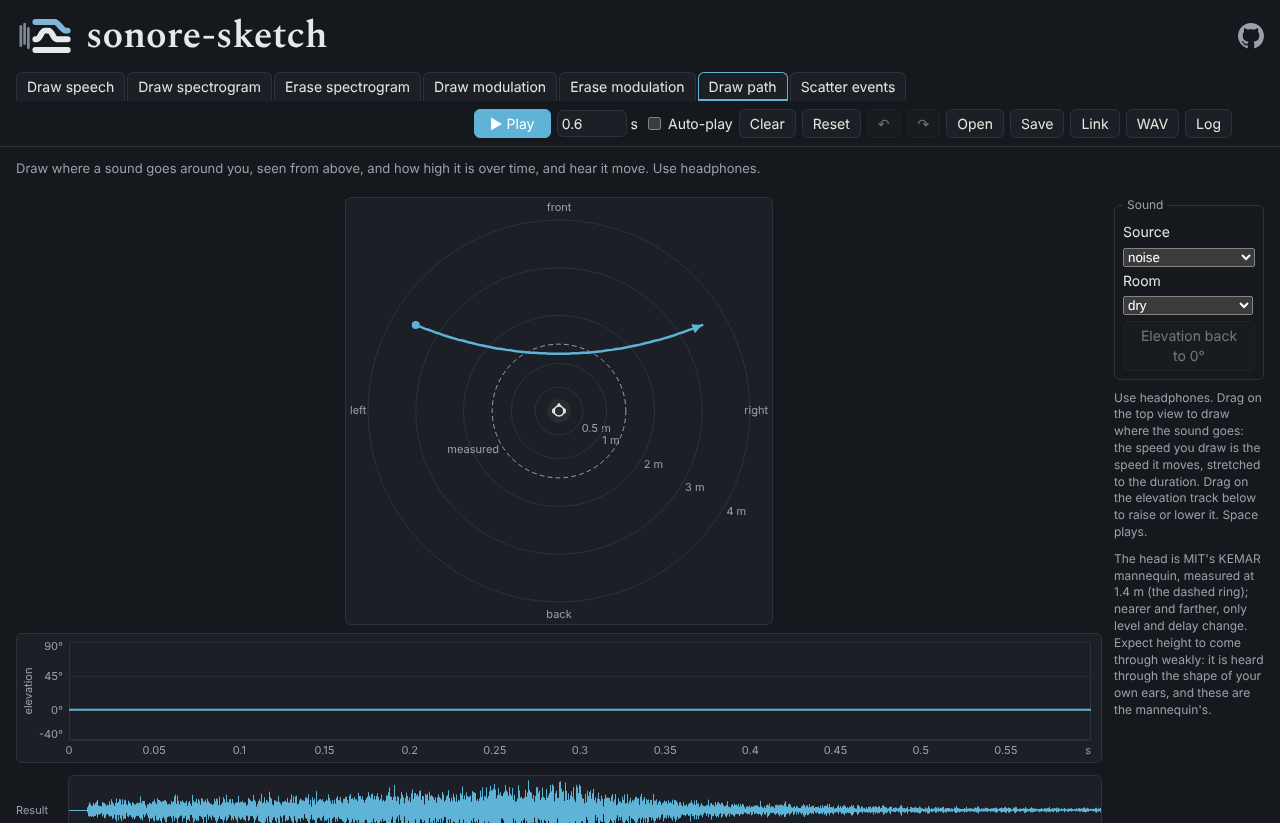
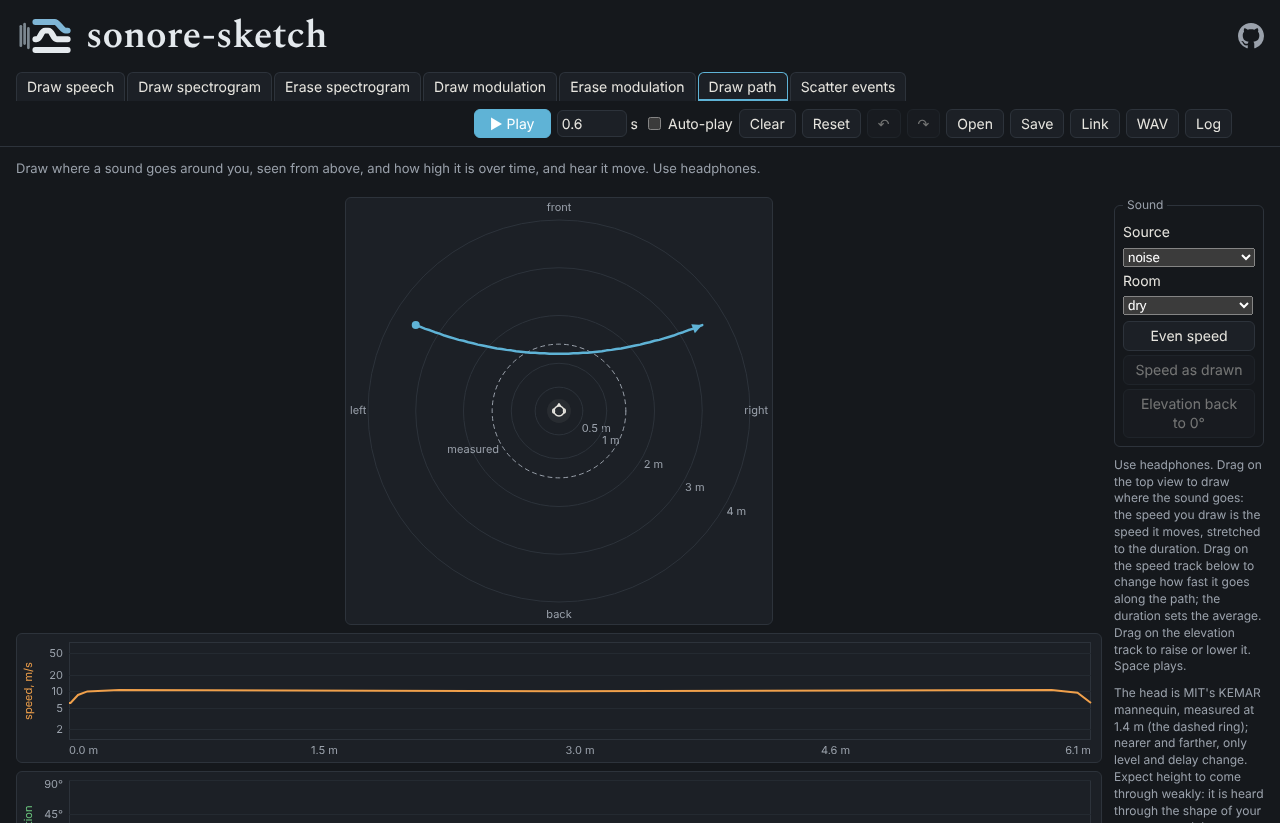
README screenshots: retake after Draw path's speed track
Claude-Session: https://claude.ai/code/session_01VRBdSnmmHXjqBvDKgkQQJ7

Changed region(s): [[0.0, 0.3949, 1.0, 1.0], [0.0, 0.8202, 0.8438, 0.9113]]

diff --git a/README.md b/README.md
@@ -21,7 +21,7 @@ that makes every sound here, can do, each sound playable next to its plots.
 <table><tr>
 <td width="33%"><a href="https://choyun1.github.io/sonore-sketch/#tab=draw-speech"><img alt="The Draw speech tab: formant tracks over the spectrogram of sonore saying its name, with the F0 and voicing tracks below" src="docs/screenshots/draw-speech.png"></a><br><sub><b>Draw speech</b>: formant, F0, voicing and noise tracks, spoken by Klatt's synthesizer</sub></td>
 <td width="33%"><a href="https://choyun1.github.io/sonore-sketch/#tab=draw-spectrogram"><img alt="The Draw spectrogram tab: &quot;sonore&quot; written by hand on a spectrogram, and the waveform of the sound it makes" src="docs/screenshots/draw-spectrogram.png"></a><br><sub><b>Draw spectrogram</b>: a sound whose spectrogram is the painting</sub></td>
-<td width="33%"><a href="https://choyun1.github.io/sonore-sketch/#tab=draw-path"><img alt="The Draw path tab: a path drawn round the listener, seen from above, from front left to front right, with the elevation track and the waveform of the sound below" src="docs/screenshots/draw-path.png"></a><br><sub><b>Draw path</b>: a sound moving round your head, for headphones</sub></td>
+<td width="33%"><a href="https://choyun1.github.io/sonore-sketch/#tab=draw-path"><img alt="The Draw path tab: a path drawn round the listener, seen from above, from front left to front right, with its speed and elevation tracks below" src="docs/screenshots/draw-path.png"></a><br><sub><b>Draw path</b>: a sound moving round your head, for headphones</sub></td>
 </tr></table>
 
 sonore-sketch is under active development, and so is sonore. A saved
